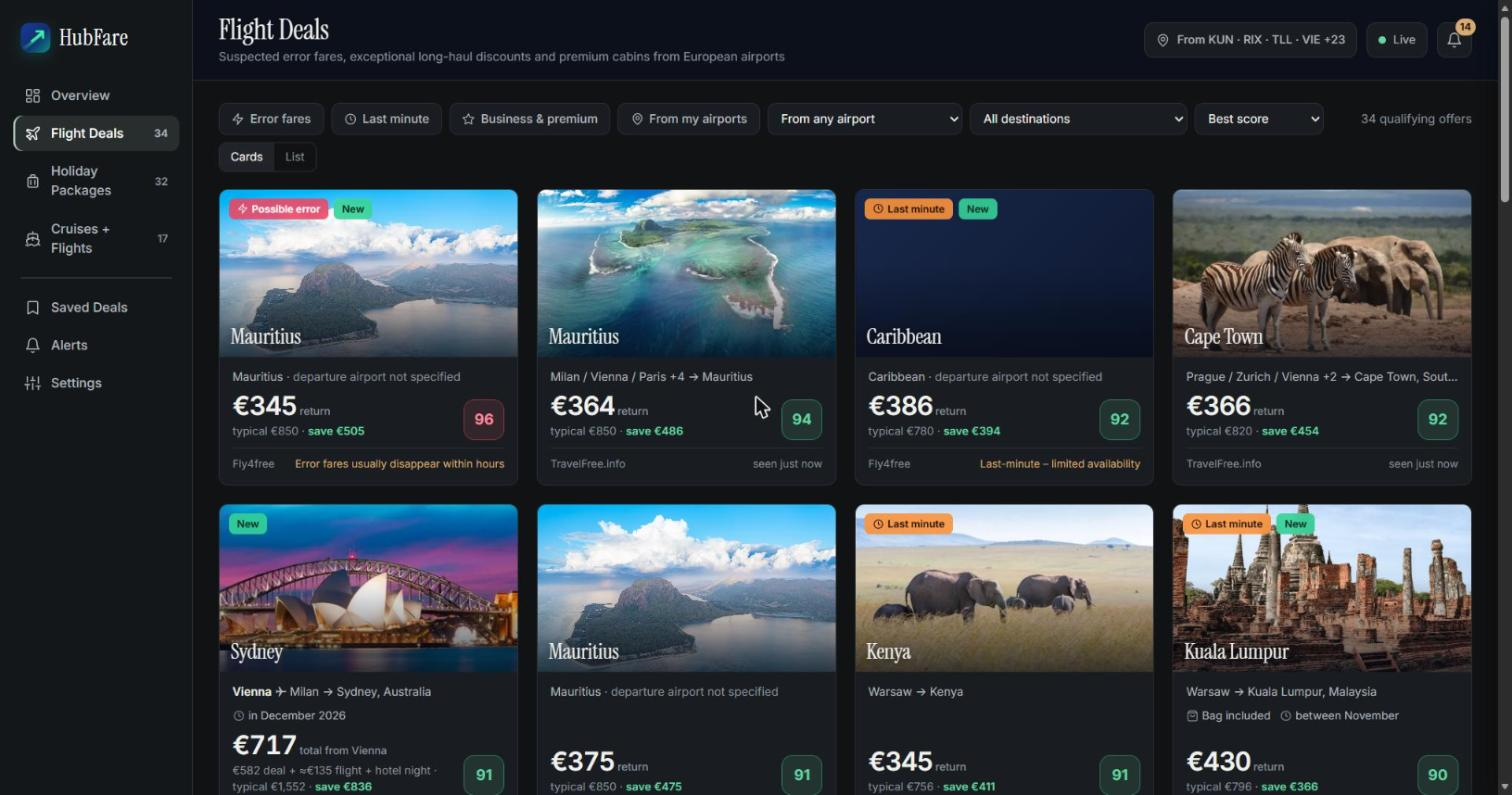
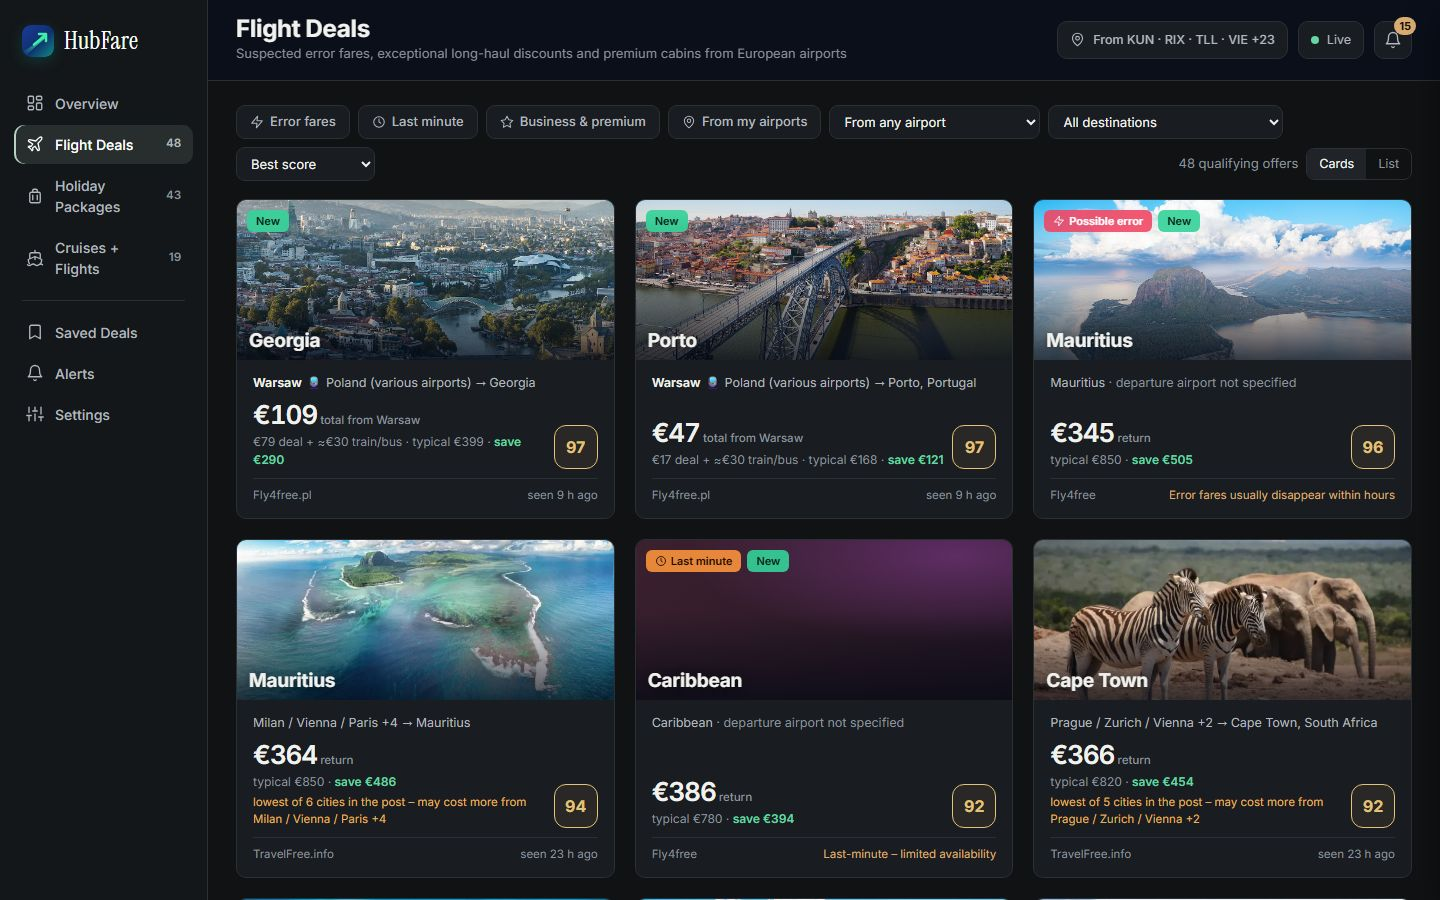
Calmer, denser design and cleaner deal panel
- Up to three cards per row with shorter photos; sans-serif headings
- Green only marks savings; scores are neutral, 90+ in gold
- Destinations without a photo get a calm gradient instead of an empty box
- Deal panel is narrower and shows the two best searches, the rest behind
  'more searches'; primary button text is readable
- Shareable deal links (#/flights?deal=ID)
- Expire deals whose travel window only names past years
- Older multi-city offers get the 'shared price' label too
- Remove duplicate destination-image keys; new screenshots

diff --git a/frontend/app.js b/frontend/app.js
@@ -90,7 +90,7 @@ function renderMonitoring(m, airports) {
 }
 
 /* ------------------------------------------------------------------ cards */
-const scoreCls = (s) => (s >= 95 ? "s95" : s >= 85 ? "s85" : s >= 70 ? "s70" : "");
+const scoreCls = (s) => (s >= 90 ? "s90" : s >= 75 ? "s75" : "");
 const scoreBadge = (s) => `<div class="score ${scoreCls(s)}" title="Deal Score">${s}</div>`;
 const basisLabel = (d) => d.price_basis === "total" ? "total for 2" : d.price_basis === "per_night" ? "/night" : d.subtype === "flight" ? (d.trip_type === "one_way" ? "one-way" : "return") : "pp";
 function tags(d) {
@@ -110,7 +110,7 @@ function facts(d) {
   if (d.subtype === "flight" && d.baggage === "included") f.push(`<span>${ic("bag")}Bag included</span>`);
   if (d.port) f.push(`<span>${ic("pin")}From ${esc(d.port)}</span>`);
   if (d.depart_date && f.length < 3) f.push(`<span>${ic("clock")}${esc(fmtDate(d.depart_date))} – ${esc(fmtDate(d.return_date))}</span>`);
-  if (d.live_status === "confirmed") f.unshift(`<span class="lv ok">✓ Live price checked</span>`);
+  if (d.live_status === "confirmed") f.unshift(`<span class="lv ok">✓ Similar live fare found</span>`);
   else if (d.live_status === "higher") f.unshift(`<span class="lv warn">Price rose – re-scored at ${eur(d.live_price)}</span>`);
   else if (d.live_status === "unavailable") f.unshift(`<span class="lv warn">No matching live offer</span>`);
   if (d.travel_window && f.length < 3) f.push(`<span>${ic("clock")}${esc(d.travel_window.slice(0, 28))}</span>`);
@@ -129,7 +129,9 @@ const total = (d) => d.total || d.home_total || (d.subtype === "cruise" && d.tri
 const sharedNote = (d) => d.shared_price ? `lowest of ${d.shared_price.cities} cities in the post – may cost more from ${esc(d.origin_label)}` : "";
 const MONTHS = ["Jan", "Feb", "Mar", "Apr", "May", "Jun", "Jul", "Aug", "Sep", "Oct", "Nov", "Dec"];
 const fmtDate = (iso) => (iso && /^\d{4}-\d{2}-\d{2}/.test(iso) ? `${+iso.slice(8, 10)} ${MONTHS[+iso.slice(5, 7) - 1]}` : iso || "");
-const bg = (url) => (url ? `style="background-image:url('${esc(url)}')"` : "");
+const hue = (t) => [...(t || "")].reduce((h, c) => (h * 31 + c.charCodeAt(0)) % 360, 7);
+const bg = (url, name) => (url ? `style="background-image:url('${esc(url)}')"`
+  : `data-noimg style="--h:${hue(name)}"`);
 function dealCard(d, compact = false) {
   const pos = d.positioning;
   const main = total(d);
@@ -139,7 +141,7 @@ function dealCard(d, compact = false) {
     d.subtype === "cruise" ? `Cruise fare ${eur(d.price)} · typical trip ${eur(d.reference)}` :
     d.price_for_two && !d.home_total ? `${eur(d.price_for_two)} for 2 · typical ${eur(d.reference)}` : `typical ${eur(d.reference)}`;
   return `<article class="panel deal" data-id="${d.id}" tabindex="0">
-    <div class="ph" ${bg(d.image)}><div class="tags">${tags(d)}</div><div class="dest">${esc(d.dest)}</div></div>
+    <div class="ph" ${bg(d.image, d.dest)}><div class="tags">${tags(d)}</div><div class="dest">${esc(d.dest)}</div></div>
     <div class="body">
       <div class="from">${routeLine(d)}</div>
       ${compact ? "" : facts(d)}
@@ -165,12 +167,12 @@ function fromOptions(sel) {
 function bookingSection(d) {
   const links = d.booking || [];
   if (!links.length) return "";
-  const fromPost = links.filter((l) => l.from_post), built = links.filter((l) => !l.from_post);
   const row = (l) => `<a class="book-link" href="${esc(l.url)}" target="_blank" rel="noopener noreferrer">
-      <span class="site">${esc(l.site)}</span><span class="lbl">${esc(l.label)}</span>${ic("ext")}</a>`;
+      <span class="site">${esc(l.site)}</span><span class="lbl">${esc(l.label)}${l.from_post ? ' <em>from the post</em>' : ""}</span>${ic("ext")}</a>`;
+  const top = links.slice(0, 2), rest = links.slice(2);
   return `<div class="sec"><h4>Search &amp; book</h4>
-    ${fromPost.length ? `<div class="muted" style="font-size:12px;margin-bottom:6px">Exact searches from the original post</div><div class="book-list">${fromPost.map(row).join("")}</div>` : ""}
-    ${built.length ? `<div class="muted" style="font-size:12px;margin:${fromPost.length ? 12 : 0}px 0 6px">${d.depart_date ? "Live searches for these dates" : "Live searches – pick your dates on the site"}</div><div class="book-list">${built.map(row).join("")}</div>` : ""}
+    <div class="book-list">${top.map(row).join("")}</div>
+    ${rest.length ? `<details class="more-links"><summary>${rest.length} more searches (other dates, cities and sites)</summary><div class="book-list">${rest.map(row).join("")}</div></details>` : ""}
     <div class="muted" style="font-size:11.5px;margin-top:8px">Opens a live search – the advertised price may have changed. HubFare never books anything.</div></div>`;
 }
 function listRow(d) {
@@ -184,7 +186,7 @@ function listRow(d) {
     <span class="r">${scoreBadge(d.score)}</span></div>`;
 }
 function miniRow(d, sub) {
-  return `<div class="mini" data-id="${d.id}"><div class="thumb" ${bg(d.image)}></div>
+  return `<div class="mini" data-id="${d.id}"><div class="thumb" ${bg(d.image, d.dest)}></div>
     <div style="min-width:0"><div class="t">${routeLine(d)}</div><div class="s">${esc(sub)}</div></div>
     <div class="p num">${eur(total(d))}<small>${d.score}/100</small></div></div>`;
 }
@@ -214,7 +216,7 @@ async function viewOverview(v) {
   }).join("");
   const b = o.best;
   const best = b ? `<article class="panel best" data-id="${b.id}">
-      <div class="bg" ${bg(b.image)}></div>
+      <div class="bg" ${bg(b.image, b.dest)}></div>
       <div class="inner">
         <div style="display:flex;gap:6px;flex-wrap:wrap"><span class="tag flat">Best opportunity</span>${tags(b)}</div>
         <div><h3>${esc(b.dest)}</h3><div class="route">${routeLine(b)} · ${CAT_META[b.category].label}</div></div>
@@ -232,7 +234,7 @@ async function viewOverview(v) {
   v.innerHTML = `
     <div class="cat-grid">${cats}</div>
     <div class="ov-row">${best}
-      <div class="panel side-list"><div class="head"><h3>May disappear soon</h3><span class="muted" style="font-size:12px">${o.expiring.length}</span></div>${exp}</div>
+      <div class="panel side-list"><div class="head"><h3>Last-minute &amp; short-lived</h3><span class="muted" style="font-size:12px">${o.expiring.length}</span></div>${exp}</div>
     </div>
     <div class="section-head"><h2>Latest exceptional deals</h2><span class="muted" style="font-size:12.5px">${o.relevant_count} of ${o.total_count} active deals depart from your airports or markets${o.unresolved_count ? ` · ${o.unresolved_count} without a departure airport are kept out of the top lists` : ""}</span></div>
     ${latest}
@@ -331,7 +333,7 @@ async function openDeal(id) {
     ? `From ${esc(d.positioning.hub_name)}: ${eur(d.subtype === "cruise" && d.trip_total ? d.trip_total : d.price)} deal + ${d.positioning.estimated ? "≈" : ""}${eur(d.positioning.price)} getting there`
     : d.price_basis === "total" ? "Total for 2 travellers" : d.subtype === "flight" ? "Per person" : `Per person · ${eur(d.price_for_two)} for 2`;
   dr.innerHTML = `
-    <div class="hero" ${bg(d.image)}><button class="icon-btn close" id="dr-close" aria-label="Close">${ic("x")}</button>
+    <div class="hero" ${bg(d.image, d.dest)}><button class="icon-btn close" id="dr-close" aria-label="Close">${ic("x")}</button>
       <div class="h"><div style="display:flex;gap:6px;flex-wrap:wrap">${tags(d)}</div><h2>${esc(d.dest)}</h2>
       <div class="muted" style="color:var(--text-2)">${esc(d.origin_label)} → ${esc(d.dest)}${d.dest_country !== d.dest ? ", " + esc(d.dest_country) : ""} · ${CAT_META[d.category].label}</div></div></div>
     <div class="sec">${flagNotice}${urg}
@@ -633,6 +635,8 @@ async function route() {
     v.innerHTML = `<div class="notice err">Could not load data: ${esc(e.message)}. Is the API running?</div>`;
   }
   window.scrollTo(0, 0);
+  const deal = new URLSearchParams(location.hash.split("?")[1] || "").get("deal");  // shareable: #/flights?deal=123
+  if (deal) openDeal(+deal);
 }
 
 window.addEventListener("hashchange", route);

diff --git a/frontend/styles.css b/frontend/styles.css
@@ -407,3 +407,42 @@ pre.body { white-space: pre-wrap; font: 12.5px/1.5 var(--sans); color: var(--tex
 
 /* price shared by several departure cities */
 .deal .shared { margin-top: 3px; font-size: 11.5px; color: var(--warn, #e0b25c); }
+
+/* ================= redesign (review round 2) =================
+   - up to 3 cards per row, shorter photos, more room for price + route
+   - sans-serif for UI headings (serif only for the wordmark)
+   - green only means "saving"; scores and checks are neutral
+   - calm gradient when a destination has no photo */
+.grid { grid-template-columns: repeat(auto-fill, minmax(max(270px, calc((100% - 40px) / 3)), 1fr)); }
+.deal .ph { aspect-ratio: auto; height: 160px; background-color: #1a2026; }
+.grid.compact .deal .ph { aspect-ratio: auto; height: 120px; }
+.deal .ph .dest, .grid.compact .deal .ph .dest { font-family: var(--sans); font-weight: 650; font-size: 19px; letter-spacing: -.2px; }
+.grid.compact .deal .ph .dest { font-size: 16px; }
+.deal .body { padding: 14px 16px 14px; gap: 9px; }
+.deal .price { font-size: 26px; }
+.topbar h1 { font-family: var(--sans); font-weight: 650; font-size: 24px; letter-spacing: -.3px; }
+.best h3 { font-family: var(--sans); font-weight: 650; font-size: 30px; letter-spacing: -.5px; }
+.drawer .hero h2 { font-family: var(--sans); font-weight: 650; font-size: 30px; letter-spacing: -.4px; }
+
+[data-noimg] { background-image: radial-gradient(120% 90% at 85% 10%, hsl(var(--h) 38% 30% / .9), transparent 60%),
+  linear-gradient(135deg, hsl(calc(var(--h) + 35) 30% 18%), hsl(var(--h) 25% 11%)) !important; }
+
+.score { background: var(--panel-2); border-color: var(--line-2); color: var(--text); }
+.score.s75 { border-color: #6b7480; }
+.score.s90 { border-color: var(--gold); color: var(--gold); background: rgba(227, 194, 122, .08); }
+.tag.prot, .facts-row .lv.ok, .cat-stats .new { color: var(--text-2); }
+.mini .p small { color: var(--muted); }
+.notice.ok { border-color: var(--line-2); background: var(--panel-2); color: var(--text-2); }
+.ap.on { border-color: var(--accent); background: var(--accent-soft); color: var(--text); }
+.btn.primary { color: #0e1411; font-weight: 600; }
+.btn.primary svg { color: #0e1411; }
+
+.drawer { width: min(560px, 100vw); }
+.drawer .hero { height: 200px; }
+.book-link .lbl em { font-style: normal; font-size: 11px; color: var(--muted); margin-left: 4px; }
+.more-links { margin-top: 8px; }
+.more-links summary { cursor: pointer; font-size: 12.5px; color: var(--text-2); padding: 6px 0; list-style: none; }
+.more-links summary::before { content: "+ "; color: var(--muted); }
+.more-links[open] summary::before { content: "– "; }
+.more-links .book-list { margin-top: 6px; }
+@media (max-width: 600px) { .deal .ph { height: 140px; } .book-link { grid-template-columns: 96px 1fr auto; } }

diff --git a/backend/app/scanner.py b/backend/app/scanner.py
@@ -164,6 +164,9 @@ def _score_offer(s, o: Offer, d: ParsedDeal, enabled_codes: set[str], text: str)
     o.discount_pct = res["discount_pct"]
     res.update(breakdown_extra)
     res["shared_price"] = (o.score_breakdown or {}).get("shared_price")
+    multi = [c for c in dict.fromkeys(o.origin_codes or []) if not c.endswith("*") and c in ORIGIN_PLACES]
+    if not res["shared_price"] and len(multi) > 1:  # older multi-city offer that was never split
+        res["shared_price"] = {"cities": len(multi), "listed": [ORIGIN_PLACES[c].name for c in multi]}
     if res["shared_price"]:
         res["modifiers"].append({"label": f"price is the lowest of {res['shared_price']['cities']} cities in the post – "
                                           "this city may cost more", "points": 0})
@@ -408,6 +411,13 @@ def run_provider(key: str) -> dict:
     return result
 
 
+def _past_window(window: str | None, year: int) -> bool:
+    """'im Dezember 2024' in a 2026 scan: every year the travel window names is already over."""
+    import re
+    years = [int(y) for y in re.findall(r"\b(20\d\d)\b", window or "")]
+    return bool(years) and max(years) < year
+
+
 def expire_offers() -> int:
     n = 0
     now = utcnow()
@@ -418,7 +428,7 @@ def expire_offers() -> int:
             limit = EXPIRY_DAYS.get(o.subtype, 14)
             stale_api = o.provider_key in ("travelpayouts", "tp_calendar", "tp_special") and o.last_seen_at < now - timedelta(hours=26 if o.provider_key == "tp_calendar" else 8)
             blog_flight = o.subtype == "flight" and o.provider_key not in ("travelpayouts", "tp_calendar", "tp_special") and not RSS_FLIGHTS
-            departed = o.depart_date and o.depart_date < now.strftime("%Y-%m-%d")
+            departed = (o.depart_date and o.depart_date < now.strftime("%Y-%m-%d")) or _past_window(o.travel_window, now.year)
             if age_ref < now - timedelta(days=limit) or stale_api or blog_flight or o.provider_key in disabled or departed \
                     or excluded_origin(o.origin_codes or [o.origin_code]) or o.link_status == "gone":
                 o.status = "expired"

diff --git a/backend/app/images.py b/backend/app/images.py
@@ -15,14 +15,11 @@ log = logging.getLogger(__name__)
 
 # Better-looking Wikipedia articles for some destinations
 WIKI_TITLE = {
-    "colombo": "Sri Lanka", "maldives": "Maldives", "bangkok": "Bangkok", "thailand": "Phi Phi Islands",
-    "phuket": "Phuket province", "bali": "Bali", "tokyo": "Tokyo", "japan": "Mount Fuji", "zanzibar": "Zanzibar",
-    "canaries": "Tenerife", "egypt": "Hurghada", "capeverde": "Cape Verde", "caribbean": "Caribbean",
-    "stlucia": "Saint Lucia", "cancun": "Cancún", "puntacana": "Punta Cana", "riodejaneiro": "Rio de Janeiro",
+    "bangkok": "Bangkok", "thailand": "Phi Phi Islands",
+    "phuket": "Phuket province", "tokyo": "Tokyo", "japan": "Mount Fuji",     "canaries": "Tenerife", "egypt": "Hurghada",     "stlucia": "Saint Lucia", "cancun": "Cancún", "puntacana": "Punta Cana", "riodejaneiro": "Rio de Janeiro",
     "saopaulo": "São Paulo", "newyork": "New York City", "hongkong": "Hong Kong", "sydney": "Sydney",
-    "auckland": "New Zealand", "seychelles": "Seychelles", "mauritius": "Mauritius", "lapland": "Lapland (Finland)",
-    "usa": "United States", "shanghai": "Shanghai", "jakarta": "Indonesia", "kualalumpur": "Kuala Lumpur",
-    "vietnam": "Ha Long Bay", "aruba": "Curaçao", "mallorca": "Mallorca", "madeira": "Madeira", "iceland": "Iceland",
+    "auckland": "New Zealand", "lapland": "Lapland (Finland)",
+    "usa": "United States", "shanghai": "Shanghai",     "vietnam": "Ha Long Bay", "mallorca": "Mallorca", "iceland": "Iceland",
     "kazakhstan": "Almaty", "taipei": "Taipei", "toronto": "Toronto", "miami": "Miami", "losangeles": "Los Angeles",
     # country-level destinations: use a scenic article (country articles lead with a flag or map)
     "cyprus": "Ayia Napa", "malta": "Valletta", "barbados": "Bridgetown", "tropea": "Tropea", "sardinia": "Costa Smeralda",

diff --git a/backend/tests/test_parsing_scoring.py b/backend/tests/test_parsing_scoring.py
@@ -328,3 +328,10 @@ def test_multi_city_post_becomes_one_deal_per_city():
     codes = [d.origin_codes for _, d, _, _ in out]
     assert all(len(c) == 1 for c in codes) and len({c[0] for c in codes}) == len(out)
     assert all(n == len(out) for _, _, n, _ in out)
+
+
+def test_travel_window_in_past_year_expires():
+    from app.scanner import _past_window
+    assert _past_window("im Dezember 2024", 2026)
+    assert not _past_window("Dec 2026 – Jan 2027", 2026)
+    assert not _past_window("flexible dates", 2026)
